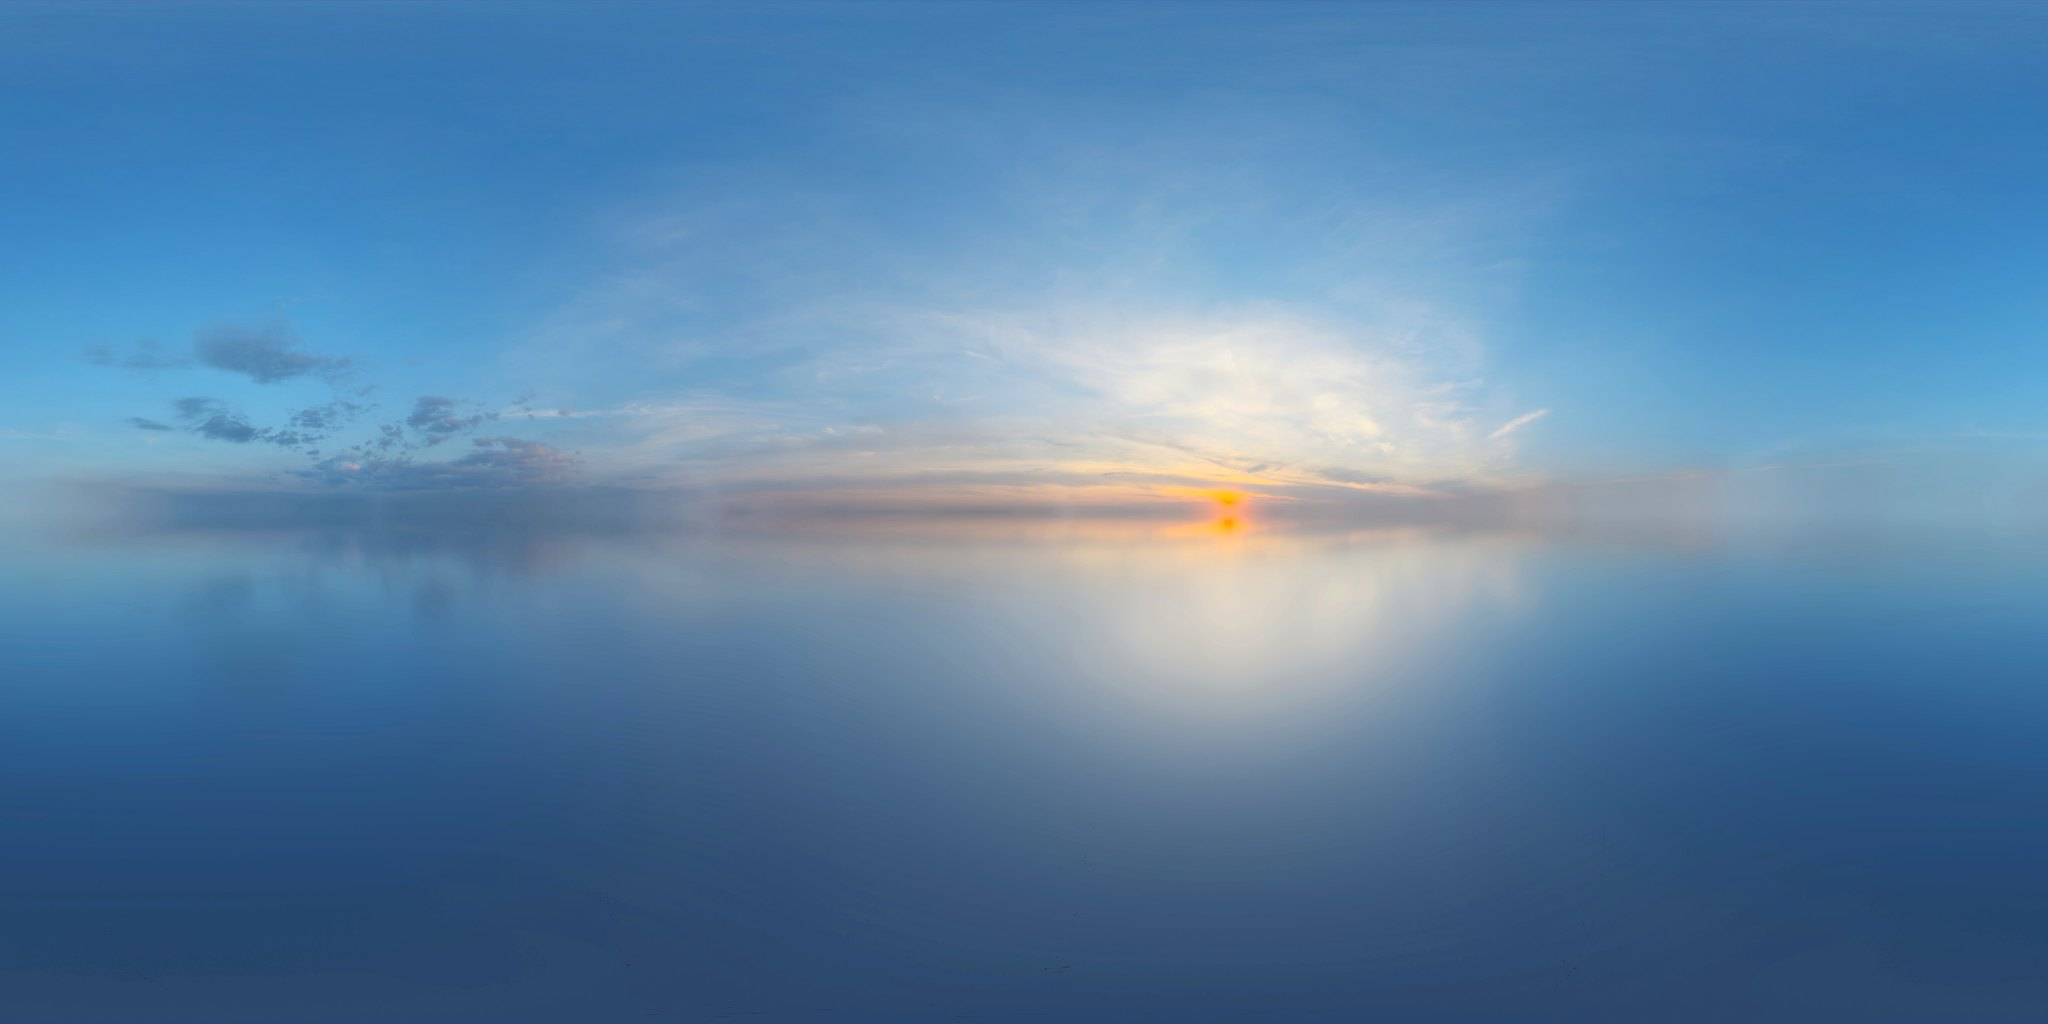
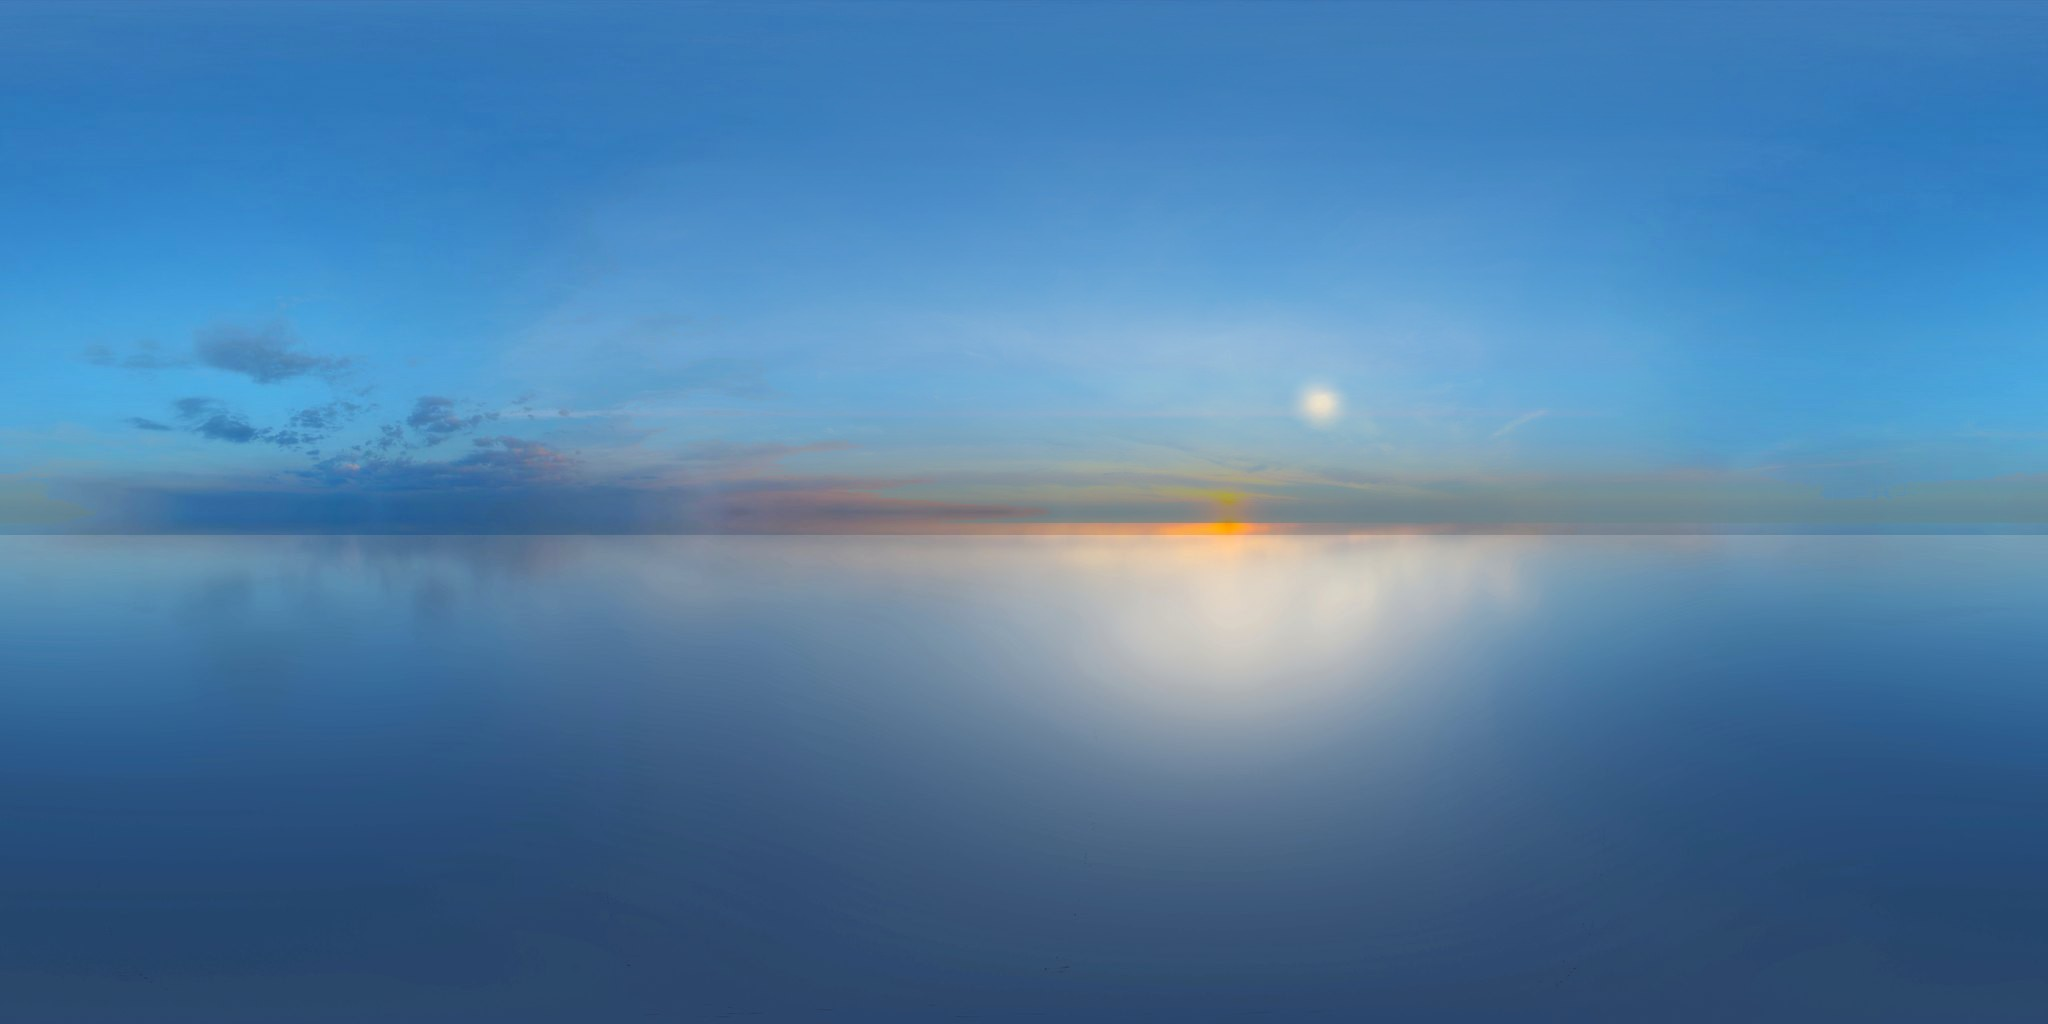
Lambo Blast lambo7c: de-haloed sky panoramas, lower Canyon/Snowy grade exposure, bluer/thinner snow + canyon + jungle fog (tracks 1 and 3 still read washed on 7b)

Changed region(s): [[0.0, 0.0938, 1.0, 0.5312]]

diff --git a/unity/lambo-blast/Assets/Scripts/Core/Look.cs b/unity/lambo-blast/Assets/Scripts/Core/Look.cs
@@ -82,7 +82,7 @@ public static class Look
     static Texture skyBase;
     public static int Theme;
     // sky exposure / rotation per theme (sun azimuth of each panorama vs the theme's sun light)
-    static readonly float[] SkyExp = { 1f, 0.8f, 0.85f, 0.78f, 0.85f, 0.82f };   // lambo7b: the new panoramas read washed-out at 1.0 under the filmic grade
+    static readonly float[] SkyExp = { 1f, 0.8f, 0.85f, 0.78f, 0.85f, 0.82f };   // lambo7c: sky jpgs also de-haloed (lbgfx2/sky7b/dehalo.py); lambo7b: the new panoramas read washed-out at 1.0 under the filmic grade
     // lambo7b: +180 on the new skies - with the sky sun matched to the sun light the start straights looked straight into a
     // white sun glow (probe A-T1 / A-T3); the panorama sun now sits behind the grid, the sky in view stays blue
     static readonly float[] SkyRot = { 18f, 174f, 256f, 214f, 211f, 124f };   // R = sunAz - (u_sun - 0.25) * 360 (measured, lb-gfx/make_theme_tex.py)
@@ -100,10 +100,10 @@ public static class Look
         float sunI = 1.1f, fogD = 0.0022f, exp = 1f; Vector3 sunE = new Vector3(48f, -38f, 0f);
         switch (th)
         {
-            case 1: sunC = new Color(1f, 0.87f, 0.68f); sunI = 1.15f; sunE = new Vector3(40f, -60f, 0f); sky = new Color(0.5f, 0.48f, 0.52f); eq = new Color(0.58f, 0.46f, 0.36f); gr = new Color(0.5f, 0.32f, 0.22f); fog = new Color(0.86f, 0.72f, 0.58f); fogD = 0.0016f; tint = new Color(0.56f, 0.5f, 0.44f); break;
+            case 1: sunC = new Color(1f, 0.87f, 0.68f); sunI = 1.15f; sunE = new Vector3(40f, -60f, 0f); sky = new Color(0.5f, 0.48f, 0.52f); eq = new Color(0.58f, 0.46f, 0.36f); gr = new Color(0.5f, 0.32f, 0.22f); fog = new Color(0.8f, 0.64f, 0.5f); fogD = 0.0013f; tint = new Color(0.56f, 0.5f, 0.44f); break;
             case 2: sunC = new Color(1f, 0.68f, 0.48f); sunI = 1.2f; sunE = new Vector3(34f, 30f, 0f); sky = new Color(0.46f, 0.36f, 0.36f); eq = new Color(0.52f, 0.36f, 0.28f); gr = new Color(0.6f, 0.28f, 0.1f); fog = new Color(0.42f, 0.28f, 0.22f); fogD = 0.0022f; tint = new Color(0.44f, 0.3f, 0.26f); exp = 0.9f; break;
-            case 3: sunC = new Color(0.96f, 0.97f, 1f); sunI = 1.1f; sunE = new Vector3(36f, -20f, 0f); sky = new Color(0.46f, 0.54f, 0.68f); eq = new Color(0.52f, 0.56f, 0.62f); gr = new Color(0.5f, 0.52f, 0.58f); fog = new Color(0.8f, 0.85f, 0.92f); fogD = 0.0024f; tint = new Color(0.5f, 0.53f, 0.58f); exp = 1.1f; break;
-            case 4: sunC = new Color(1f, 0.95f, 0.8f); sunI = 1.05f; sunE = new Vector3(55f, -70f, 0f); sky = new Color(0.4f, 0.5f, 0.52f); eq = new Color(0.4f, 0.48f, 0.36f); gr = new Color(0.26f, 0.32f, 0.2f); fog = new Color(0.55f, 0.66f, 0.56f); fogD = 0.0032f; tint = new Color(0.46f, 0.52f, 0.46f); break;
+            case 3: sunC = new Color(0.96f, 0.97f, 1f); sunI = 1.1f; sunE = new Vector3(36f, -20f, 0f); sky = new Color(0.46f, 0.54f, 0.68f); eq = new Color(0.52f, 0.56f, 0.62f); gr = new Color(0.5f, 0.52f, 0.58f); fog = new Color(0.68f, 0.77f, 0.9f); fogD = 0.0016f; tint = new Color(0.5f, 0.53f, 0.58f); exp = 1.1f; break;
+            case 4: sunC = new Color(1f, 0.95f, 0.8f); sunI = 1.05f; sunE = new Vector3(55f, -70f, 0f); sky = new Color(0.4f, 0.5f, 0.52f); eq = new Color(0.4f, 0.48f, 0.36f); gr = new Color(0.26f, 0.32f, 0.2f); fog = new Color(0.5f, 0.62f, 0.54f); fogD = 0.0025f; tint = new Color(0.46f, 0.52f, 0.46f); break;
             case 5: sunC = new Color(1f, 0.9f, 0.8f); sunI = 1.1f; sunE = new Vector3(32f, -110f, 0f); sky = new Color(0.44f, 0.5f, 0.64f); eq = new Color(0.5f, 0.5f, 0.52f); gr = new Color(0.35f, 0.35f, 0.38f); fog = new Color(0.72f, 0.78f, 0.88f); fogD = 0.0011f; tint = new Color(0.5f, 0.52f, 0.56f); exp = 1.05f; break;
         }
         if (sun != null) { sun.color = sunC; sun.intensity = sunI; sun.transform.rotation = Quaternion.Euler(sunE); }

diff --git a/unity/lambo-blast/Assets/Scripts/Core/LBPost.cs b/unity/lambo-blast/Assets/Scripts/Core/LBPost.cs
@@ -20,9 +20,9 @@ public class LBPost : MonoBehaviour
     // per theme: saturation, contrast, warmth, filmic exposure, bloom
     static readonly float[,] Theme = {
         { 1.18f, 1.14f, 0.03f, 1.02f, 0.26f },   // 0 Coconut Cove
-        { 1.16f, 1.17f, 0.05f, 0.98f, 0.22f },   // 1 Canyon Leap
+        { 1.16f, 1.17f, 0.05f, 0.92f, 0.2f },    // 1 Canyon Leap (7c: lower exposure)
         { 1.16f, 1.18f, 0.06f, 0.98f, 0.34f },   // 2 Volcano Rim (lava glow blooms more)
-        { 1.10f, 1.16f, -0.035f, 0.94f, 0.2f },  // 3 Snowy Summit (snow + sky clip fast: lower exposure, more contrast)
+        { 1.12f, 1.18f, -0.035f, 0.85f, 0.16f }, // 3 Snowy Summit (snow + sky clip fast: lower exposure, more contrast; 7c lower again)
         { 1.16f, 1.14f, 0.0f, 1.0f, 0.22f },     // 4 Jungle Ruins
         { 1.14f, 1.16f, -0.01f, 0.98f, 0.28f },  // 5 Sky City
     };
